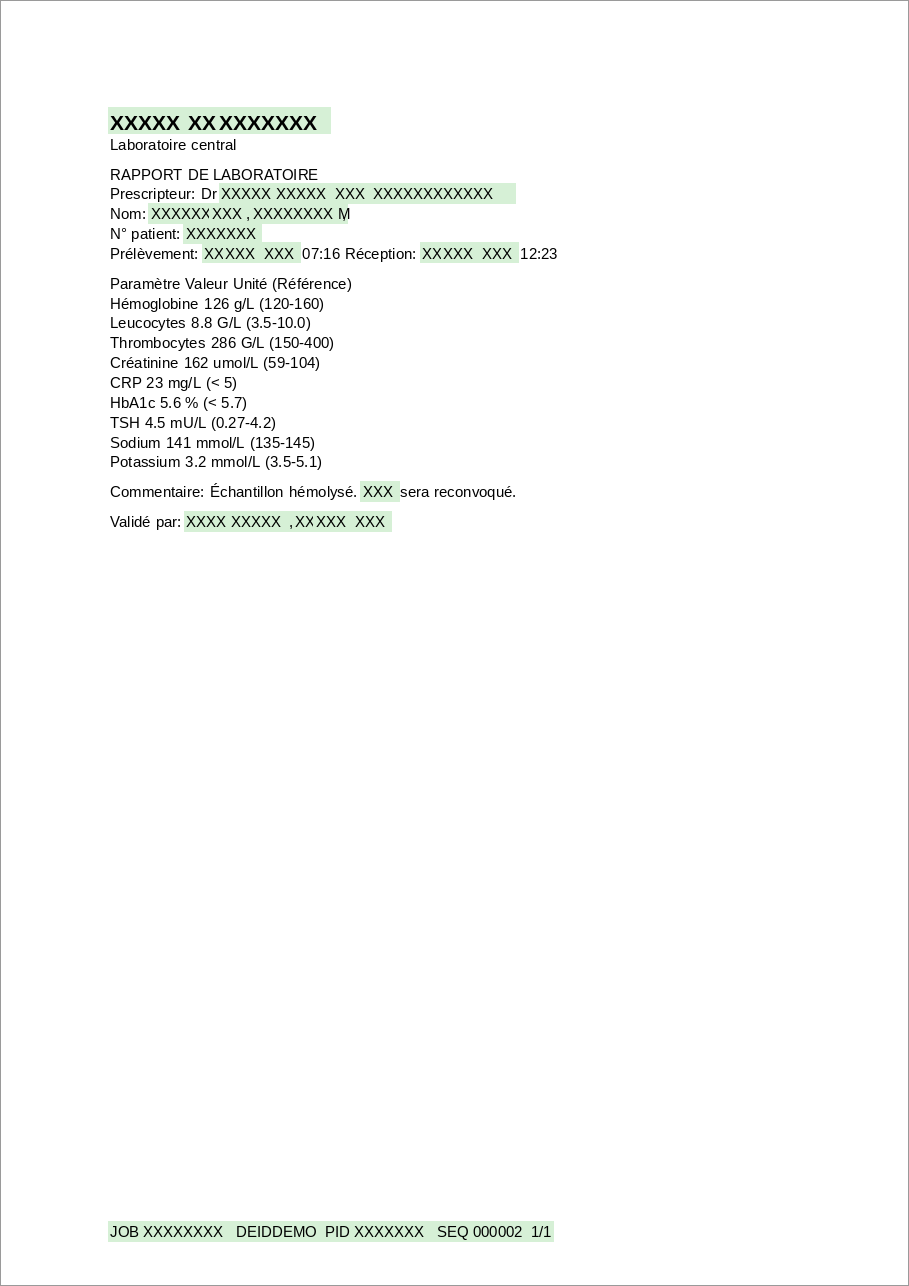
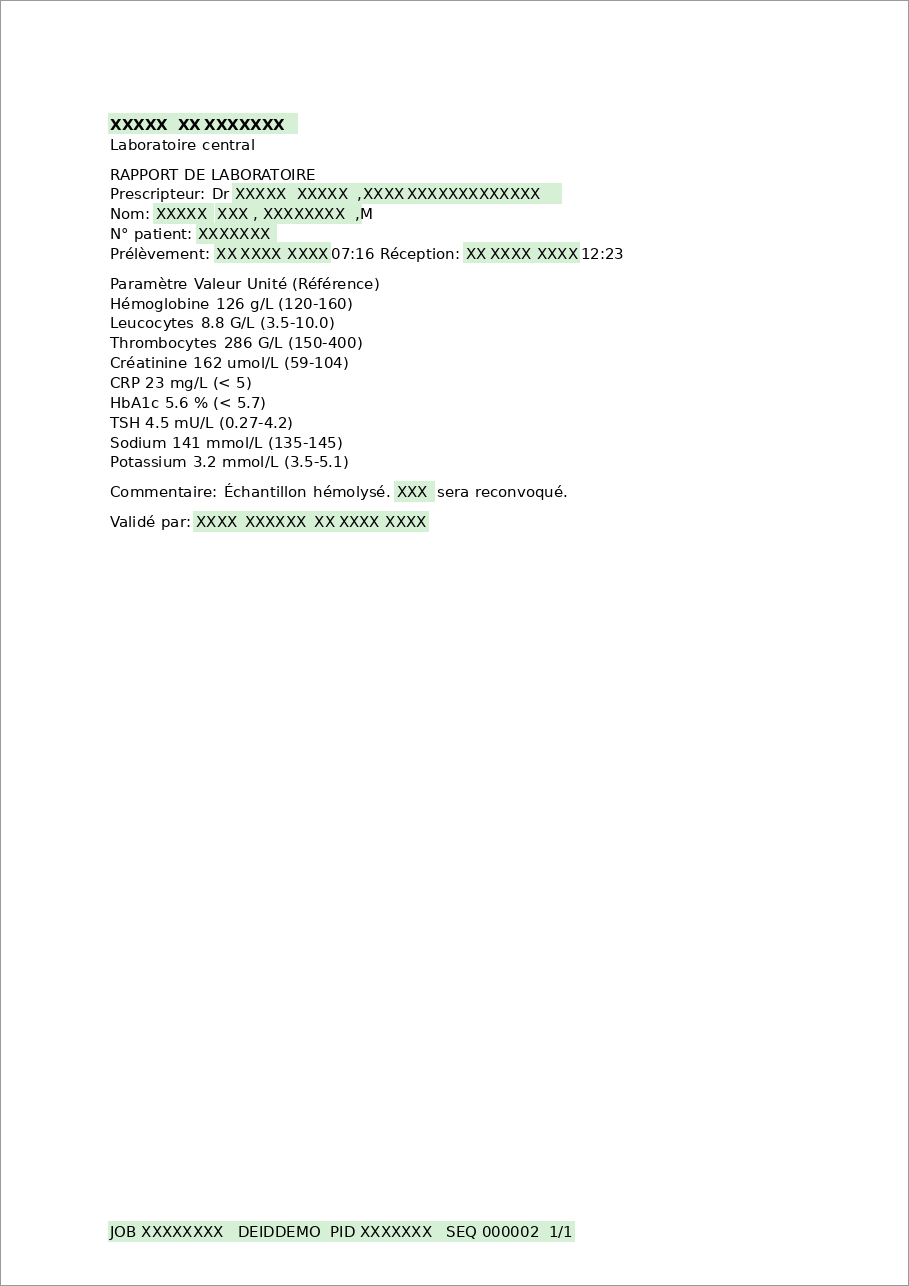
tuning round 1 (C_gliner_pp 96.5/95.1 on GraSCCo test), AFP demo on T1001140 fonts, portable renderer fonts

Changed region(s): [[0.1232, 0.0622, 0.6469, 0.4355], [0.2464, 0.9331, 0.6469, 0.9642], [0.1232, 0.9331, 0.2156, 0.9642]]

diff --git a/deidlab/rules.py b/deidlab/rules.py
@@ -49,7 +49,7 @@ NAME_SEQ = rf"{NAME_TOKEN}(?:[ ](?:(?:de|di|da|del|della|von|van|du|De|Di|Da|Von
 HONORIFICS = (
     r"(?:(?i:Univ\.?-?Prof\.|Prof\.|Priv\.-?\s?Doz\.|Dr\.?\s?med\.?(?:\s?(?:univ(?:ers)?|dent|vet|mult)\.?)?|"
     r"Dr\.\s?rer\.\s?nat\.|Dr\.\s?mult\.|DDr\.|Dr\.a\.?|Dipl\.-?(?:Med|Ing)\.|Mag\.|MUDr\.|Dott\.ssa|Dott\.|Dr\.ssa)|"
-    r"Dr\.|Dre?\s|PD|OA|OÄ|Pat\.|Ass\.|Doz\.|Univ\.-?Doz\.|DGKS|DGKP|Ltd\.|Prim\.|"
+    r"Dr\.|Dre?\s|PD|OA|OÄ|Pat\.|Ass\.|Doz\.|Univ\.-?Doz\.|DGKS|DGKP|Ltd\.|Prim\.|mult\.|med\.|univ\.|habil\.|"
     r"Herrn?|Frau|Hr\.|Fr\.|Fräulein|HERRN?|FRAU|"
     r"Madame|Monsieur|Mme|Mlle|M\.|"
     r"Sig\.ra|Sig\.|[Ss]ignora|[Ss]ignor|madame|monsieur)"
@@ -104,13 +104,13 @@ ORG_TAIL_WORD = rf"(?:[{UC}][\w\-\.&]+|der|des|an der|de|di|du|des|régional|reg
 CITY_TOKEN = rf"[{UC}][{LC}\.]*(?:-[{UC}{LC}][{LC}\.]*)*"      # "Yverdon-les-Bains", "St. Anna", "Alt-Neudorf"
 
 STREET_SUFFIX = (r"straße|strasse|strße|str\.|gasse|weg|platz|allee|ring|damm|ufer|pfad|steig|promenade|"
-                 r"chaussee|markt|hof|berg|tal|graben|zeile|landstraße|rain|halde|bühl|matte")
+                 r"chaussee|markt|hof|berg|tal|graben|zeile|landstraße|rain|halde|bühl|matte|kamp|busch|feld|wall")
 STREET_NAME = rf"(?:[{UC}][{LC}]{{1,10}}(?:er|e|sche)[ ])?(?:[{UC}][\w\-]*(?i:{STREET_SUFFIX})|(?i:Straße|Strasse|Str\.|Gasse|Weg|Platz|Allee))\.?"
 
 PHONE_KEY = r"(?:Tel(?:efon|efax|\.)?|Fax|Handy|Mobil(?:e|tel)?|Durchwahl|DW|Info|Sekretariat|Telefono|Cellulare|Tél(?:éphone)?|Portable)"
 PHONE_BODY = r"(?:\+\d{2,3} ?)?(?:\(0?\d{1,5}\) ?)?\d[\d /().\-]{5,}\d(?: ?- ?DW)?"
 
-ID_KEY = (r"(?:PIZ|PID|Patienten-?ID|Pat\.?-?ID|Vorgangs-?Nr|E-Nr|H-?Nr|Fallzahl|Fall-?Nr|Fallnummer|Fall|SV|Aufnahme-?Nr|Pat\.?-?Nr|Patienten-?Nr|Protokoll[ -]?Nr|"
+ID_KEY = (r"(?:PIZ|PID|Patienten-?ID|Pat\.?-?ID|Vorgangs-?Nr|E-Nr|H-?Nr|Fallzahl|Fall-?Nr|Fallnummer|Fall|SV[ -]?Nr|SVNR|Sozialversicherungs-?Nr|SV|Aufnahme-?Nr|Pat\.?-?Nr|Patienten-?Nr|Protokoll[ -]?Nr|"
           r"Journal-?Nr|Auftrags-?Nr|Befund-?Nr|Labor-?Nr|Vers\.?-?Nr|Versicherungs-?Nr|Versichertennummer|KVNR|"
           r"Histologie|Histo|Zytologie|Präparat|Aktenzeichen|Az|Unsere Zeichen|Unser Zeichen|Ihr Zeichen|"
           r"N°\s?(?:de\s)?(?:dossier|patient|cas)|No\.?\s?patient|N\.\s?(?:paziente|caso|cartella)|Numero (?:paziente|caso))")
@@ -131,6 +131,11 @@ def person_valid(v: str) -> bool:
         return False
     if re.match(rf"^M\.\s?(?:{EPONYMS})$", v):                 # Morbus, not Monsieur
         return False
+    # "B. Pantozol", "T. Fieber": an initial followed by a drug or clinical word is an abbreviation
+    from .medical_terms import DENY as _MED, DRUG_SUFFIXES as _DS, MEDICAL_SUFFIXES as _MS
+    last = toks[-1].lower()
+    if len(toks) >= 2 and len(toks[0]) == 1 and (last in _MED or last.endswith(_DS) or last.endswith(_MS)):
+        return False                                             # initial-led only: "Dr. Heinz Hals" is a name
     return True
 
 
@@ -169,7 +174,7 @@ RULES = [
 
     # --- dates -------------------------------------------------------------------
     # d.m.yyyy, d/m/yyyy, d.m.yy, "10. 03. 2043", "23.04 2029", "8.11. 2064"
-    ("DATE", re.compile(rf"\b{DAY}[./]\s?{MON}(?:[./]\s?|\s){YEAR}\b"), 0.95, None),
+    ("DATE", re.compile(rf"\b{DAY}[./]\s?{MON}(?:[./]\s?|\s){YEAR}(?!\d)"), 0.95, None),
     ("DATE", re.compile(rf"\b{DAY}[./]{MON}[./]\d{{2}}\b(?![./]\d)"), 0.9, None),
     ("DATE", re.compile(rf"\b{YEAR}-\d{{2}}-\d{{2}}\b"), 0.95, None),
     # day.month. without year: "2.11.", "vom 2.11. – 24.11.28"
@@ -222,16 +227,16 @@ RULES = [
     # honorific(s) + name, with initials and particles: "Prof. Dr. Ch. Janssen", "Frau de Beauharnais"
     ("PERSON", re.compile(rf"(?<![\w])(?:{HONORIFIC_SEQ})(?P<v>{PERSON_NAME})"), 0.85, person_valid),
     # honorific + lone initial: "Herr V.", "Frau W."
-    ("PERSON", re.compile(rf"\b(?:Herrn?|Frau|Hr\.|Fr\.)\s(?P<v>[{UC}]\.)(?!\s?[{UC}{LC}])"), 0.8, None),
+    ("PERSON", re.compile(rf"\b(?:Herrn?|Frau|Hr\.|Fr\.)\s(?P<v>[{UC}]\.)(?!\s?[{UC}])"), 0.8, None),
     # field label + name: "Patient: Schwab Vivien", "Betrifft: Tupolev, Konstantin"
     ("PERSON", re.compile(rf"\b{FIELD_LABELS_PERSON}(?:[ \t]*:[ \t]*|[ \t]+)(?P<v>{PERSON_NAME}(?:,\s{NAME_TOKEN}(?:-{NAME_TOKEN})?)?)"), 0.85, None),
     # surname-first with comma after a person context: "Patientin Haefner, Heinz", "über Frau CHRIST, Charlotte"
     ("PERSON", re.compile(
         rf"\b(?:Patient(?:en|in)?|Frau|Herrn?|Betrifft:?|Betr\.?:?)\s(?P<v>(?:{CAPS_TOKEN}|{NAME_TOKEN}),\s{NAME_TOKEN}(?:-{NAME_TOKEN})?)"), 0.85, None),
     # initials + surname without honorific: "J. Thiel", "K. O. von Hausen"; not "M. Crohn"
-    ("PERSON", re.compile(rf"(?<![\w.])(?P<v>(?!I\.|V\.\s?a|Z\.\s?n){INITIALS}{PARTICLE}{NAME_TOKEN})(?![{LC}])"), 0.6, person_valid),
+    ("PERSON", re.compile(rf"(?<![\w.])(?<![zusovZUSOV]\. )(?<![zusovZUSOV]\.)(?P<v>(?!I\.|V\.\s?a|Z\.\s?n){INITIALS}{PARTICLE}{NAME_TOKEN})(?![{LC}])"), 0.6, person_valid),
     # surname + initial (signature list): "Hendlbein H.", "Brunzli B."
-    ("PERSON", re.compile(rf"(?:(?m:^)|:\s|\|\s|\t)[ ]*(?P<v>{NAME_TOKEN} (?!M\.|N\.|V\.|A\.)[{UC}]\.)(?=\s|$)"), 0.6, None),
+    ("PERSON", re.compile(rf"(?:(?m:^)|:\s|\|\s|\t)[ ]*(?P<v>(?!(?:Herrn?|Frau|Hr|Fr)\b){NAME_TOKEN} (?!M\.|N\.|V\.|A\.)[{UC}]\.)(?=\s|$)"), 0.6, None),
     # signature block: name line followed by a role line
     ("PERSON", re.compile(rf"(?m)^(?P<v>(?:{INITIALS})?{NAME_TOKEN}(?:[ ]{NAME_TOKEN}){{1,2}})[ \t]*\n(?:{ROLE_LINE})"), 0.8, None),
     ("PERSON", re.compile(rf"(?m)^(?P<v>{NAME_TOKEN}(?:[ ]{NAME_TOKEN}){{1,2}})[ ]*$(?![\s\S])"), 0.6, None),

diff --git a/deidlab/postprocess.py b/deidlab/postprocess.py
@@ -22,8 +22,19 @@ DENY = {
     "consœur", "consoeur", "confrère", "collègues", "chers collègues", "chère consœur",
     "collega", "colleghi", "gentile collega", "cari colleghi",
     # titles that NER tags as a person on their own
-    "dr", "dr.", "dott", "dott.", "prof", "prof.", "med", "med.",
+    "dr", "dr.", "dott", "dott.", "prof", "prof.", "med", "med.", "dr. med", "dr med", "univ-prof. dr. med",
+    "univ.-prof. dr. med", "prof. dr. med", "oa", "oä", "oberarzt", "oberärztin", "chefarzt", "chefärztin",
+    "direktor", "mag", "pd dr",
+    # generic persons and salutation forms
+    "herrn", "herr", "frau", "der", "die", "das", "pat", "patient", "patientin", "patienten", "mädchen", "junge",
+    "der patient", "der patient selbst", "die patientin",
 }
+
+# A PERSON span that names a role or a relative is not a name
+KINSHIP = {"patient", "patientin", "patienten", "mutter", "vater", "tochter", "sohn", "ehemann", "ehefrau",
+           "großmutter", "grossmutter", "großvater", "grossvater", "junge", "mädchen", "kind", "kinder", "bruder",
+           "schwester", "eltern", "partner", "partnerin", "selbst", "bzw", "und"}
+TITLE_BEFORE_RX = re.compile(r"(?:\b(?:Dr|Prof|Herrn?|Frau|OA|OÄ|PD|med|Dres?|Doz|Ass|Mag|Dipl)\.?|\bmult\.|\bmed\.)\s*$")
 
 
 def deny_filter(text, spans):
@@ -46,6 +57,24 @@ LOC_PREP_RX = re.compile(
     r"(?:\b(?:in|aus|nach|bei|von|zu|über|Richtung|wohnhaft|Herkunft|Ort|Wohnort|"      # DE
     r"à|de|en|vers|chez|depuis|habite|domicilié[e]?|ville|"                              # FR
     r"a|da|di|per|presso|in|verso|abita|domiciliat[oa]|città)\s*:?\s*|[,(]\s*)$", re.I)  # IT
+
+
+ORG_GENERIC = {"für", "und", "der", "die", "des", "unserer", "unseres", "unsere", "unser", "im", "am", "zum",
+               "zur", "in", "von", "am", "neurolog", "örtliches", "unf", "chir", "kh", "universitäts"}
+
+
+def _proper_org_token(token: str) -> bool:
+    """A token that can carry an institution's identity: capitalised, not an org keyword,
+    not a department/discipline word, not an adjective ending, not a stop word."""
+    t = token.strip(".,;:()").lower()
+    if len(t) < 3 or t in ORG_GENERIC or not token[0].isupper() or token.isupper() and len(token) <= 3:
+        return False
+    if ORG_WORDS_RX.search(t) or _is_medical(t):
+        return False
+    if t.endswith(("ischen", "ische", "ischer", "isches", "logie", "ologie", "urgie", "iatrie", "medizin",
+                   "zentrum", "zentrums", "stelle", "abteilung", "station", "ambulanz", "praxis")):
+        return False
+    return True
 
 
 def _is_medical(token: str) -> bool:
@@ -96,11 +125,20 @@ def utility_filter(text, spans, profile=None):
             continue
         if s.label != "PERSON" and any(_is_medical(t) for t in toks) and len(toks) <= 2:   # "Stadium IV"
             continue
-        if s.label == "PERSON" and (_is_medical(toks[-1]) or re.match(r"^(?:M\.|Morbus)\s", v)):
-            continue                                                # "Fortbestehender Nikotinabusus", "M. Parkinson"
+        titled = bool(TITLE_BEFORE_RX.search(text[max(0, s.start - 24):s.start]))
+        if s.label == "PERSON" and re.match(r"^(?:M\.|Morbus)\s", v):
+            continue                                                # "M. Parkinson"
+        if s.label == "PERSON" and _is_medical(toks[-1]) and not titled:
+            continue                                                # "Fortbestehender Nikotinabusus"; "Dr. Heinz Hals" stays
+        if s.label == "PERSON" and (any(t.lower().strip(".,") in KINSHIP for t in toks) or any(c.isdigit() for c in v)):
+            continue                                                # "Mutter bzw. Großmutter", "6-jähriger Junge"
         if s.label == "ORGANIZATION" and not ORG_WORDS_RX.search(v):
             continue
-        if strict and s.label == "PERSON" and len(toks) == 1 and v.lower() not in confident_person_tokens:
+        if s.label == "ORGANIZATION" and not any(_proper_org_token(t) for t in toks):
+            continue                                                # "Klinik", "unserer Klinik", "Klinik für Chirurgie"
+        gliner_confident = s.source == "GLiNERRecognizer" and s.score >= 0.7
+        if strict and s.label == "PERSON" and len(toks) == 1 and v.lower() not in confident_person_tokens \
+                and not gliner_confident and not titled:
             continue
         if strict and s.label == "LOCATION" and len(toks) == 1 \
                 and not LOC_PREP_RX.search(text[max(0, s.start - 14):s.start]):
@@ -159,7 +197,7 @@ def propagate(text, spans):
         elif s.label == "ORGANIZATION":
             targets += [(t, "LOCATION", False) for t in _tokens(value) if t.lower() not in INSTITUTION_WORDS]
         for needle, label, ci in targets:
-            if len(needle) < 3 or (needle, ci) in seen:
+            if len(needle) < 3 or (needle, ci) in seen or _is_medical(needle):
                 continue
             seen.add((needle, ci))
             for a, b in _find_all(text, needle, ci):

diff --git a/deidlab/evaluate.py b/deidlab/evaluate.py
@@ -17,13 +17,19 @@ from .pipelines import merge
 from .rules import Span
 
 
-def coverage(gold, preds):
-    covered = 0
+def coverage(gold, preds, text=None):
+    """Share of the gold span's characters covered by predictions. Whitespace inside the
+    gold span (line breaks in multi-line institution headers) never counts as a leak."""
+    gs, ge = gold["start"], gold["end"]
+    hit = bytearray(ge - gs)
     for p in preds:
-        lo, hi = max(gold["start"], p.start), min(gold["end"], p.end)
+        lo, hi = max(gs, p.start), min(ge, p.end)
         if hi > lo:
-            covered += hi - lo
-    return min(covered, gold["end"] - gold["start"]) / (gold["end"] - gold["start"])
+            hit[lo - gs:hi - gs] = b"\x01" * (hi - lo)
+    idx = [i for i in range(ge - gs) if text is None or not text[gs + i].isspace()]
+    if not idx:
+        return 1.0
+    return sum(hit[i] for i in idx) / len(idx)
 
 
 def evaluate(docs, predictions, full_cov=0.999):
@@ -33,7 +39,7 @@ def evaluate(docs, predictions, full_cov=0.999):
         text = d["text"]
         preds = merge(predictions[d["id"]])
         for g in d["spans"]:
-            c = coverage(g, preds)
+            c = coverage(g, preds, text)
             status = "FULL" if c >= full_cov else ("PARTIAL" if c > 0 else "MISSED")
             ctx_s, ctx_e = max(0, g["start"] - 40), min(len(text), g["end"] + 40)
             gold_rows.append({

diff --git a/config.py b/config.py
@@ -94,6 +94,14 @@ AFP_FILLER       = "X"
 AFP_SYMBOL_FONTS = ()        # local font ids whose text is barcode/OMR glyphs, e.g. (7,) ; blanked with spaces
 AFP_ZONES        = []        # [(x0, y0, x1, y1), ...] in 1/1440 inch, masked unconditionally (recipient window)
 AFP_MASK_TAGS    = True      # TLE / BNG / ENG / NOP
+# Fonts the synthetic demo (scripts/20_afp_demo.py) references: {local id: (code page, character set)}.
+# IBM 240/300-dpi compatibility names; pick ones that exist in the viewer's resource library.
+# Override per run: DEID_AFP_DEMO_FONTS="T1V10500:C0H200A0,T1V10500:C0H400A0"  (id 1 body, id 2 title)
+AFP_DEMO_FONTS = {1: ("T1001140", "C0H200A0"),    # code page 1140 (EBCDIC 037 + euro), Helvetica 10
+                  2: ("T1001140", "C0H400A0")}    # Helvetica bold 10 (C0H400D0, bold 14, is often missing)
+# The demo text is encoded in the Python codec that matches the code page name (deidlab.afp.CODEPAGE_NAMES).
+if os.environ.get("DEID_AFP_DEMO_FONTS"):
+    AFP_DEMO_FONTS = {i + 1: tuple(p.split(":")) for i, p in enumerate(os.environ["DEID_AFP_DEMO_FONTS"].split(","))}
 
 # NER utility filter profile for the *_pp pipelines (deidlab/postprocess.py):
 #   "clinical"  for medical letters: also drops uncorroborated single-token names and

diff --git a/scripts/20_afp_demo.py b/scripts/20_afp_demo.py
@@ -19,7 +19,7 @@ from pathlib import Path
 
 sys.path.insert(0, str(Path(__file__).resolve().parents[1]))
 import config as cfg
-from deidlab.afp import AfpWriter, layout_text, mask_document, read_text
+from deidlab.afp import CODEPAGE_NAMES, AfpWriter, layout_text, mask_document, read_text
 from deidlab.afp_render import measure_factory, render, side_by_side
 from deidlab.pipelines import build, merge
 
@@ -40,7 +40,7 @@ def first(d, label):
 
 
 # --- build the print stream ----------------------------------------------------
-w = AfpWriter("DEIDDEMO")
+w = AfpWriter("DEIDDEMO", codepage=CODEPAGE_NAMES.get(cfg.AFP_DEMO_FONTS[1][0], "cp500"), fonts=cfg.AFP_DEMO_FONTS)
 measure = measure_factory(w.fonts)
 for n, d in enumerate(picked, 1):
     pid = first(d, "PATIENT_ID") or f"{n:08d}"

diff --git a/deidlab/medical_terms.py b/deidlab/medical_terms.py
@@ -53,6 +53,7 @@ protokoll schema zyklus zyklen woche wochen tag tage monat monate jahr jahre stu
 salbe lsg lösung drg dragees tbl supp creme gel formel level grad grades plastik
 department abteilung ambulanz hochschulambulanz poliklinik sprechstunde sekretariat direktor
 bekannter bekannte bekannt mit ohne bei nach vor seit unter zur zum vom aus der des die das
+fieber husten schmerz schmerzen übelkeit erbrechen durchfall schwindel dyspnoe ödem ödeme juckreiz ausschlag
 """.split()
 
 DRUGS = """

diff --git a/deidlab/afp.py b/deidlab/afp.py
@@ -133,6 +133,8 @@ def _ptx_sequences(payload):
 CODEPAGE_NAMES = {   # IBM code page names seen in MCF -> Python codec
     "T1V10500": "cp500", "T1V10037": "cp037", "T1V11141": "cp1141", "T1V10273": "cp273",
     "T1X00500": "cp500", "T1XFACT0": "cp500",
+    "T1001140": "cp1140", "T1000500": "cp500", "T1000037": "cp037", "T1001141": "cp1141",
+    "T1001148": "cp1148", "T1000273": "cp273", "T1001047": "cp1047",
 }
 
 

diff --git a/README.md b/README.md
@@ -27,9 +27,11 @@ Numbers from the **independent** benchmark, GraSCCo_PII test half (31 German cli
 Same code on our own synthetic corpus (600 documents, 11 009 spans): A_pp 98.7 %, B_pp 99.9 % recall,
 B_pp precision 94.7 %. The gap between the two corpora is the whole point of this project.
 
-**Stage 2, pipeline C** (GLiNER PII model + rules + post-processing) on the same test half:
-recall strict **95.0 %**, lenient 97.0 %, precision **92.5 %** (47 false positives instead of 147),
-at about 3 s per letter on CPU. Same leak protection as B, three times fewer medical terms removed.
+**Stage 2, pipeline C** (GLiNER PII model + rules + post-processing) on the same test half,
+after one tuning round on the dev half: recall strict **96.5 %**, lenient 97.3 %, precision
+**95.1 %** (30 false positives instead of 147), at about 3 s per letter on CPU. Better leak
+protection than B and five times fewer medical terms removed by mistake. The same tuning lifted
+A_pp to 92.5 % / 96.3 % and B_pp to 95.4 % / 81.4 %.
 
 ## Table of contents
 
@@ -315,6 +317,6 @@ deid-lab/
 
 - **Optimistic bias on synthetic data.** Quote GraSCCo test numbers. GraSCCo is itself synthetic and German; Swiss client documents will differ again, so a client sample set is the next benchmark.
 - **B precision.** 79 % on GraSCCo test. The remaining false positives are propagated organ-surnames (`Leber`, `Hals`) and NER phrases with adjectives; a transformer PII model (pipeline C) should replace most of the hand-made filter.
-- **Pipeline C.** GraSCCo test: 95.0 % recall / 92.5 % precision versus 94.1 % / 79.9 % for B_pp, at 16x the CPU time (3 s per letter). The post-processing filter was tuned on spaCy's mistakes and now drops some correct GLiNER names (raw C: 96.3 % recall); relaxing it for GLiNER spans is the next tuning step. **D** (B + C union) adds 0.7 points recall and brings back all of B's false positives (78 % precision): not worth it, kept as an option only.
+- **Pipeline C.** GraSCCo test: 96.5 % recall / 95.1 % precision versus 95.4 % / 81.4 % for B_pp, at 16x the CPU time (3 s per letter with 24 threads; 4 threads take 5.5 s but a third of the core-seconds, so production runs a pool of 4-thread processes). Remaining misses: ward designations annotated as IDs, partial date ranges (`2. bis 7.10.2021`), a month name without a year. **D** (B + C union) adds nothing C does not find and brings back B's false positives: kept as an option only.
 - **File formats.** Plain text and AFP text layer. Next: DOCX, text PDF, scanned PDF with OCR, AFP images and barcode fonts.
 - **Real formats.** PID and case-number patterns must be collected from real client samples before any production use.
